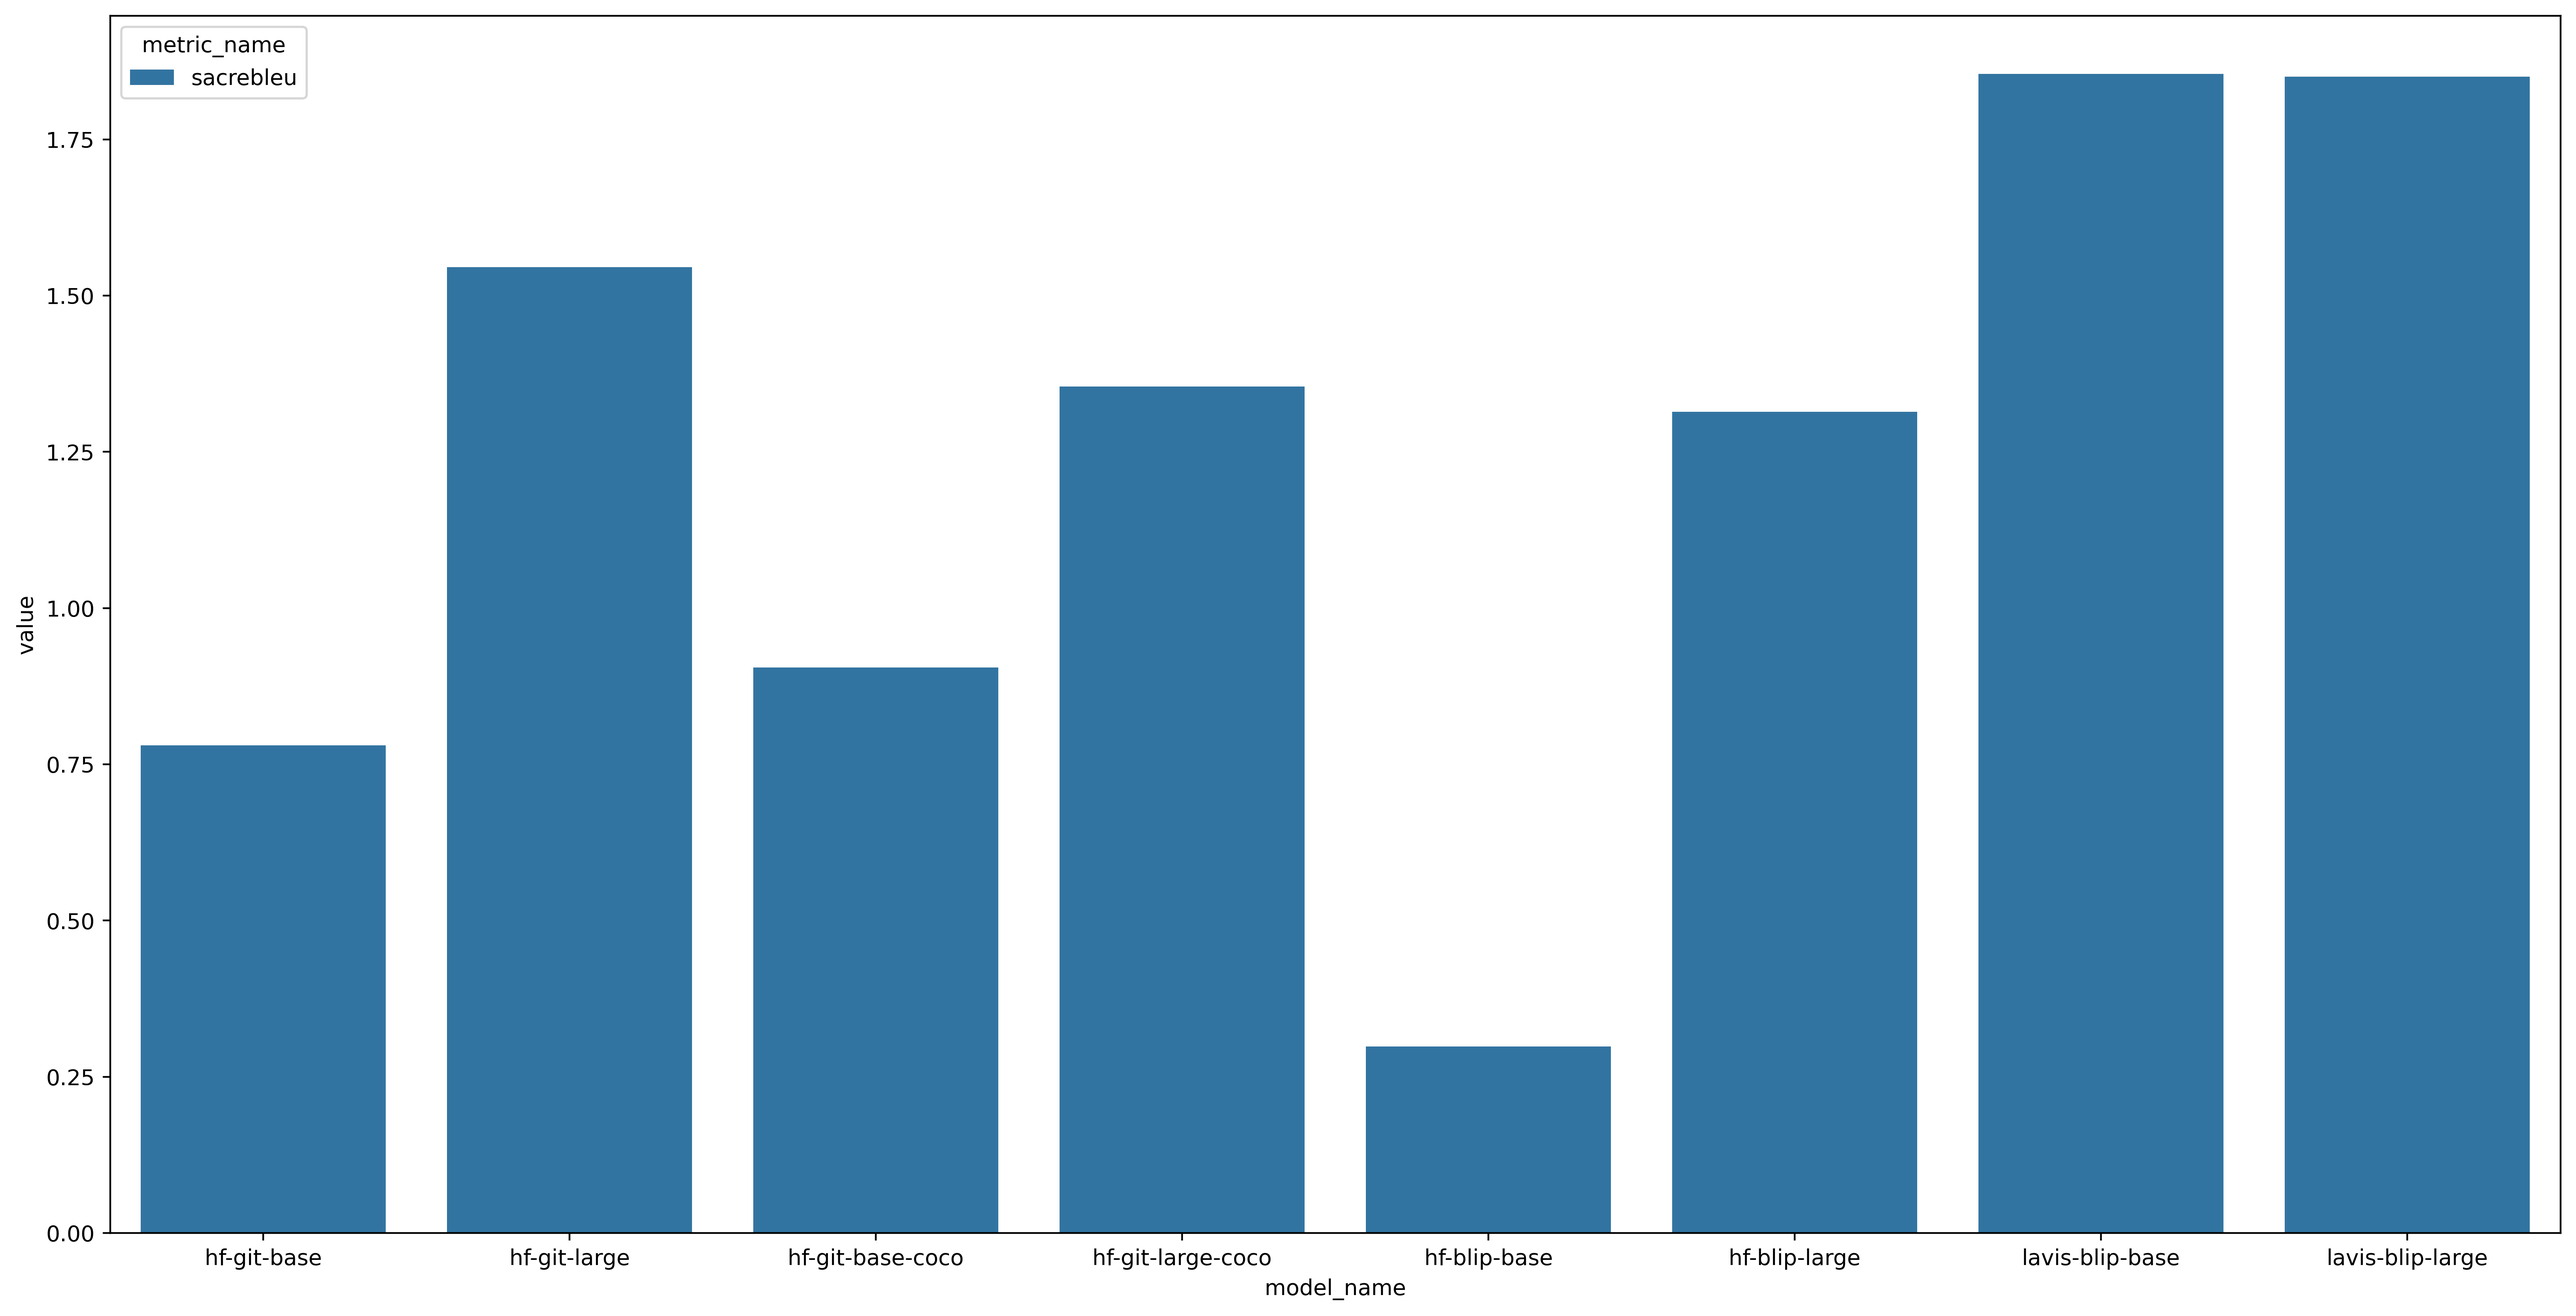
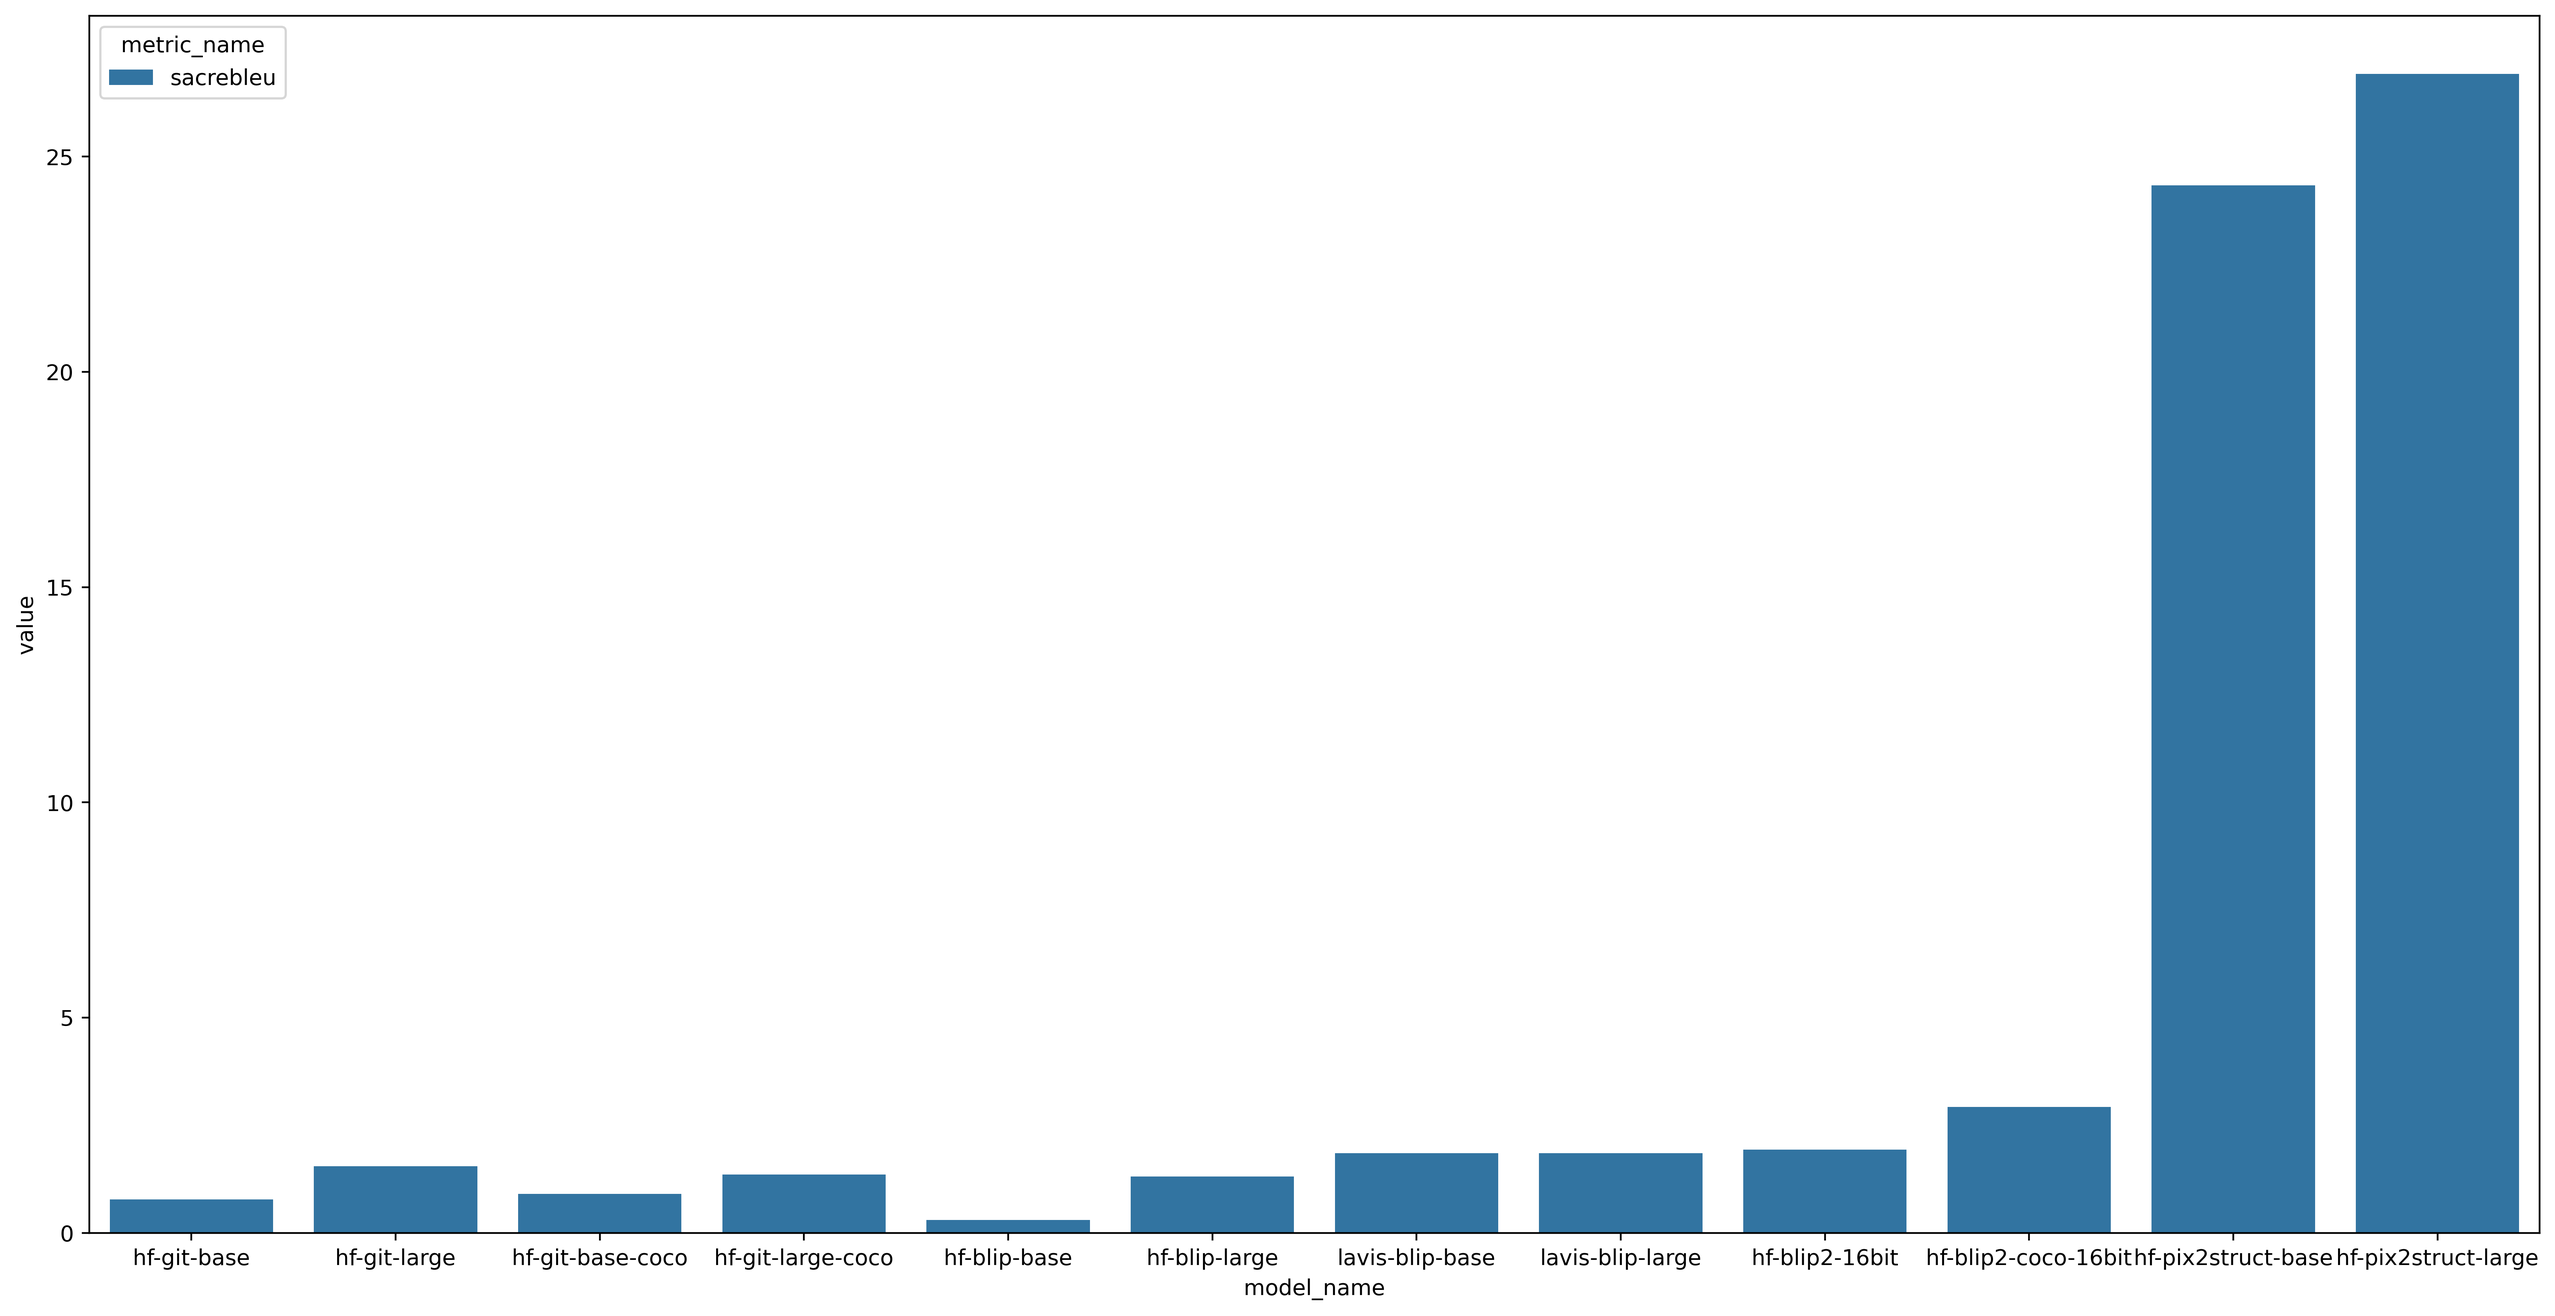
new figures

diff --git a/Image-Captioning/src/app/streamlit.py b/Image-Captioning/src/app/streamlit.py
@@ -1,4 +1,5 @@
 from lavis.models import load_model_and_preprocess, load_preprocess
+from transformers import Pix2StructForConditionalGeneration, Pix2StructProcessor
 from PIL import Image
 import pandas as pd
 import streamlit as st
@@ -11,12 +12,14 @@ DEVICE = "cuda" if torch.cuda.is_available() else "cpu"
 
 st.set_page_config(layout="wide")
 
-@st.cache_resource
-def get_model_processor():
+@st.cache
+def init_pytorch():
     _ = torch.set_grad_enabled(False)
     torch.set_num_threads(int(os.environ['INTRAOP_THREADS']))
     torch.set_num_interop_threads(int(os.environ['INTEROP_THREADS']))
 
+@st.cache_resource
+def get_blip_model_processor():
     # print("get model class")
     # model_cls = registry.get_model_class("blip_caption")
     # print("load config")
@@ -32,27 +35,53 @@ def get_model_processor():
     model, vis_processors, _ = load_model_and_preprocess(name="blip_caption", model_type="base_coco", is_eval=True, device=DEVICE)
     return model, vis_processors["eval"]
 
+@st.cache_resource
+def get_pix2struct_model_processor():
+    model_id = "models/pix2struct-base"
+    model = Pix2StructForConditionalGeneration.from_pretrained(model_id)
+    processor = Pix2StructProcessor.from_pretrained(model_id, is_vqa=False)
+    return model, processor
+
 @st.cache_data
 def convert_df(df):
     return df.to_csv().encode('utf-8')
 
-MODEL, PROCESSOR = get_model_processor()
+init_pytorch()
+
+NI_MODEL, NI_PROCESSOR = get_blip_model_processor()
+SC_MODEL, SC_PROCESSOR = get_pix2struct_model_processor()
+
+def ni_captions(images):
+    inputs = [NI_PROCESSOR(image).unsqueeze(0).to(DEVICE) for image in images]
+    inputs = torch.stack(inputs).squeeze(1).to(DEVICE)
+    out = NI_MODEL.generate({"image": inputs}, num_beams=1, max_length=500)
+    return [s.strip() for s in out]
+
+def sc_captions(images):
+    inputs = SC_PROCESSOR(images=images, return_tensors="pt").to(DEVICE)
+    out = SC_MODEL.generate(**inputs, max_new_tokens=500)
+    return [s.strip() for s in SC_PROCESSOR.batch_decode(out, skip_special_tokens=True)]
 
 st.title('Generate captions for your images')
 left_column, right_column = st.columns(2)
 
+model = left_column.radio(
+    "Model",
+    ["Natural Images", "Screenshots"],
+)
+
 file_names = []
 images = []
-# TODO: currenly 3 in a page - https://github.com/streamlit/streamlit/issues/6454
+# TODO: currently 3 in a page - https://github.com/streamlit/streamlit/issues/6454
 uploaded_files = left_column.file_uploader("", type=["png", "jpg", "jpeg"], accept_multiple_files=True)
 for uploaded_file in uploaded_files:
     file_names.append(uploaded_file.name)
     images.append(Image.open(uploaded_file))
 if left_column.button('Process', disabled=len(images)==0):
-    inputs = [PROCESSOR(image).unsqueeze(0).to(DEVICE) for image in images]
-    inputs = torch.stack(inputs).squeeze(1).to(DEVICE)
-    out = MODEL.generate({"image": inputs}, num_beams=1, max_length=500)
-    captions = [s.strip() for s in out]
+    if model == "Natural Images":
+        captions = ni_captions(images)
+    else:
+        captions = sc_captions(images)
     df = pd.DataFrame({"file_name": file_names, "caption": captions}).set_index('file_name')
     right_column.dataframe(df, width=1200)
     csv = convert_df(df)

diff --git a/Image-Captioning/build/download_models.py b/Image-Captioning/build/download_models.py
@@ -1,4 +1,4 @@
-from transformers import BlipProcessor, BlipForConditionalGeneration, Blip2Processor, Blip2ForConditionalGeneration
+from transformers import BlipProcessor, BlipForConditionalGeneration, Blip2Processor, Blip2ForConditionalGeneration, Pix2StructForConditionalGeneration, Pix2StructProcessor
 from transformers import AutoModelForCausalLM, AutoProcessor
 from argparse import ArgumentParser
 import os
@@ -36,8 +36,19 @@ def download_blip2_model(model_path, model_name):
     processor.save_pretrained(model_path)
     model.save_pretrained(model_path)
 
+def download_pix2struct_model(model_path, model_name):
+    if not os.path.exists(model_path):
+        os.makedirs(model_path)
+
+    processor = Pix2StructProcessor.from_pretrained(model_name, is_vqa=False)
+    model = Pix2StructForConditionalGeneration.from_pretrained(model_name)
+
+    # Save the processor and model to the specified directory
+    processor.save_pretrained(model_path)
+    model.save_pretrained(model_path)
+
 parser = ArgumentParser()
-parser.add_argument('model', choices=['blip', 'git', 'blip2', 'lavis-blip'])
+parser.add_argument('model', choices=['blip', 'git', 'blip2', 'lavis-blip', 'pix2struct'])
 args = parser.parse_args()
 
 if args.model == 'blip':
@@ -52,3 +63,6 @@ elif args.model == 'blip2':
 elif args.model == 'lavis-blip':
     os.system('cd models; wget https://storage.googleapis.com/sfr-vision-language-research/LAVIS/models/BLIP/blip_coco_caption_base.pth')
     os.system('cd models; wget https://storage.googleapis.com/sfr-vision-language-research/BLIP/models/model_base_capfilt_large.pth')
+elif args.model == 'pix2struct':
+    download_pix2struct_model('models/pix2struct-base/', 'google/pix2struct-screen2words-base')
+    download_pix2struct_model('models/pix2struct-large/', 'google/pix2struct-screen2words-large')

diff --git a/Image-Captioning/src/evaluation/main.py b/Image-Captioning/src/evaluation/main.py
@@ -303,15 +303,15 @@ if args.dataset == 'coco':
 else:
     references, image_paths = load_screen2words()
 
-    # print("Evaluate base models:")
-    # predictions, eval_results = evaluate_models(BASE_MODEL_INITIALIZERS, references, image_paths)
-    # save_eval_results(eval_results, '-screen2words')
-    # save_predictions(predictions, '/content/images', '-screen2words')
+    print("Evaluate base models:")
+    predictions, eval_results = evaluate_models(BASE_MODEL_INITIALIZERS, references, image_paths)
+    save_eval_results(eval_results, '-screen2words')
+    save_predictions(predictions, '/content/images', '-screen2words')
 
-    # print("Evaluate blip2 16bit models:")
-    # predictions, eval_results = evaluate_models(BLIP2_16BIT_MODEL_INITIALIZERS, references, image_paths)
-    # save_eval_results(eval_results, '-screen2words-16bit-blip2')
-    # save_predictions(predictions, '/content/images', '-screen2words-16bit-blip2')
+    print("Evaluate blip2 16bit models:")
+    predictions, eval_results = evaluate_models(BLIP2_16BIT_MODEL_INITIALIZERS, references, image_paths)
+    save_eval_results(eval_results, '-screen2words-16bit-blip2')
+    save_predictions(predictions, '/content/images', '-screen2words-16bit-blip2')
 
     print("Evaluate pix2struct models:")
     predictions, eval_results = evaluate_models(PIX2STRUCT_MODEL_INITIALIZERS, references, image_paths)

diff --git a/Image-Captioning/test/figures.py b/Image-Captioning/test/figures.py
@@ -33,14 +33,17 @@ def save_coco_figures():
 def save_screen2words_figures():
     os.makedirs("reports/figures/screen2words")
     ds = load_dataset("naorm/caption-eval-screen2words")
-    df = ds['train'].to_pandas().reset_index(drop=True)
+    ds2 = load_dataset("naorm/caption-eval-screen2words-16bit-blip2")
+    ds3 = load_dataset("naorm/caption-eval-screen2words-pix2struct")
+
+    df = pd.concat([ds['train'].to_pandas(), ds2['train'].to_pandas(), ds3['train'].to_pandas()]).reset_index(drop=True)
 
     plt.figure(figsize=(30,20))
-    sns.barplot(data=df[(df['metric_name']!='sacrebleu')&(~df['model_name'].str.contains('bit'))], x='model_name', y='value', hue='metric_name')
+    sns.barplot(data=df[df['metric_name']!='sacrebleu'], x='model_name', y='value', hue='metric_name')
     plt.savefig("reports/figures/screen2words/eval.png", dpi=400, bbox_inches="tight")
 
     plt.figure(figsize=(20,10))
-    sns.barplot(data=df[(df['metric_name']=='sacrebleu')&(~df['model_name'].str.contains('bit'))], x='model_name', y='value', hue='metric_name')
+    sns.barplot(data=df[df['metric_name']=='sacrebleu'], x='model_name', y='value', hue='metric_name')
     plt.savefig("reports/figures/screen2words/sacrebleu.png", dpi=400, bbox_inches="tight")
 
 parser = ArgumentParser()
